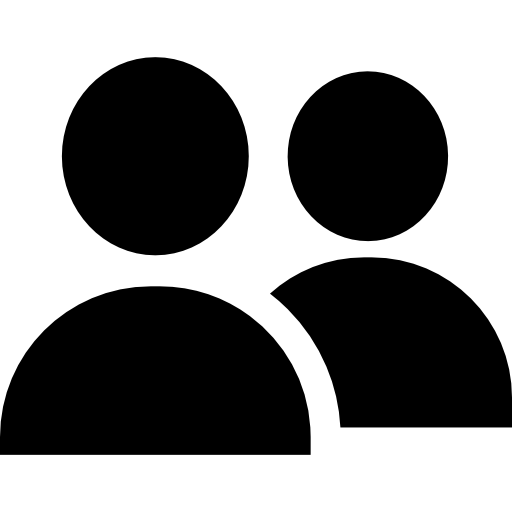
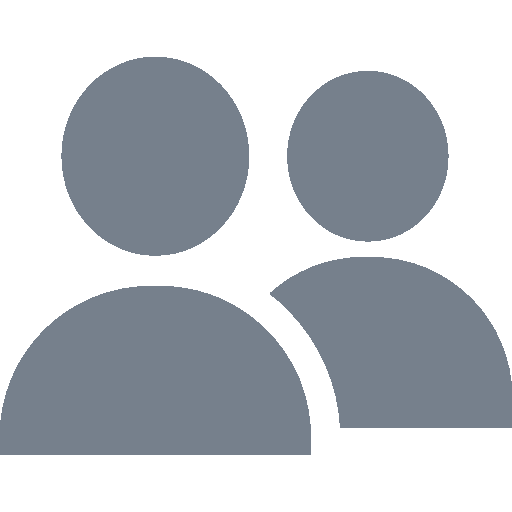
progreso nav

diff --git a/Steam/store.html b/Steam/store.html
@@ -4,28 +4,45 @@
 <head>
     <meta charset="UTF-8" />
     <meta name="viewport" content="width=device-width, initial-scale=1.0" />
-    <title>Inicio</title>
+    <title>Bienvenidos a Steam</title>
     <link rel="stylesheet" href="styles/store_styles.css">
     <link rel="stylesheet" href="styles/globals_styles.css">
+    <link rel="shortcut icon" href="img/favicon.png" type="image/x-icon">
 </head>
 
 <body>
     <header class="menu_superior">
         <div class="navegacion">
-            <div><button class="button_direccion"><span id="flechas"><</span></button>
-                <button class="button_direccion"><span id="flechas">></span></button></div>
+            <div>
+                <a class="button_direccion"><img src="img/atras.png" id="flechas">
+                </a>
+                <a class="button_direccion"><img src="img/delante.png" id="flechas">
+                </a>
+            </div>
 
             <img src="img/logo.png" class="logo">
-            <a href="#" id="a_nav1">Store</a>
+            <a href="store.html" id="a_nav1">Store</a>
             <a href="#" id="a_nav1">Community</a>
             <a href="#" id="a_nav1">UserProfile</a>
             <a href="#" id="a_nav1">Library</a>
             <a href="#" id="a_nav1">Downloads</a>
-            <button class="button_amigos"><img src="img/amigos.png" id="iconos-nav1"></button>
+            <div id="derecha-perfil">
+                <button class="button_amigos"><img src="img/amigos.png" id="iconos-nav1"></button>
+                <button class="button_amigos"><img src="img/notificacion.png" id="iconos-nav1"></button>
+                <details id="perfil">
+                    <summary id="usuario">Perfil</summary>
+                    <a href="#">Perfil</a>
+                    <a href="#">Cuenta</a>
+                    <a href="#">Cerrar sesión</a>
+                </details>
+
+
+            </div>
 
         </div>
         <nav class="navegacion2">
-            <a href="#" class="a_nav2" style="background-color: #4B619B;padding: 35px;padding-bottom: 15px;padding-top: 15px;border-radius: 5px;">Inicio</a>
+            <a href="store.html" class="a_nav2"
+                style="background-color: #4B619B;padding: 35px;padding-bottom: 15px;padding-top: 15px;border-radius: 5px;">Inicio</a>
             <a href="#" class="a_nav2">Buscar</a>
             <a href="#" class="a_nav2">Tienda de Puntos</a>
             <a href="#" class="a_nav2">Mentores</a>

diff --git a/Steam/styles/globals_styles.css b/Steam/styles/globals_styles.css
@@ -24,8 +24,10 @@ body {
 #a_nav1 {
     text-decoration: none;
     text-transform: uppercase;
+    font-size: 16px;
     font-family: 'Motiva';
     color: #F3F3F3;
+align-self: center;
 }
 
 .a_nav2 {
@@ -50,9 +52,9 @@ body {
 }
 
 #flechas {
-    font-family: 'Motiva';
-    font-size: 20px;
-    font-weight: bolder;
+filter: invert();
+    height: 20px;
+    
 }
 
 .navegacion2 {
@@ -111,10 +113,38 @@ body {
     background-color: #212B45;
     background: transparent;
     filter: brightness(100%);
+    color: #76808C;
 }
 
 button {
     background-color: #76808C50;
     border: none;
     width: 50px;
+}
+#perfil {
+    background-color: #76808C50;
+    width: 55px;
+    font-size: 12px;
+    height: 21px;
+    padding-left: 5px;
+    padding-top: 5px;
+    color: #76808C;
+}
+summary{
+    background: none;
+}
+#derecha-perfil{
+    display: flex;
+    flex-direction: row;
+    justify-content: space-evenly;
+    align-items: center;
+    width: 200px;
+}
+details a {
+    text-decoration: none;
+    background-color: #76808C50;
+    color: #76808C;
+    height: auto;
+    margin: 5px;
+    width: 200px;
 }
